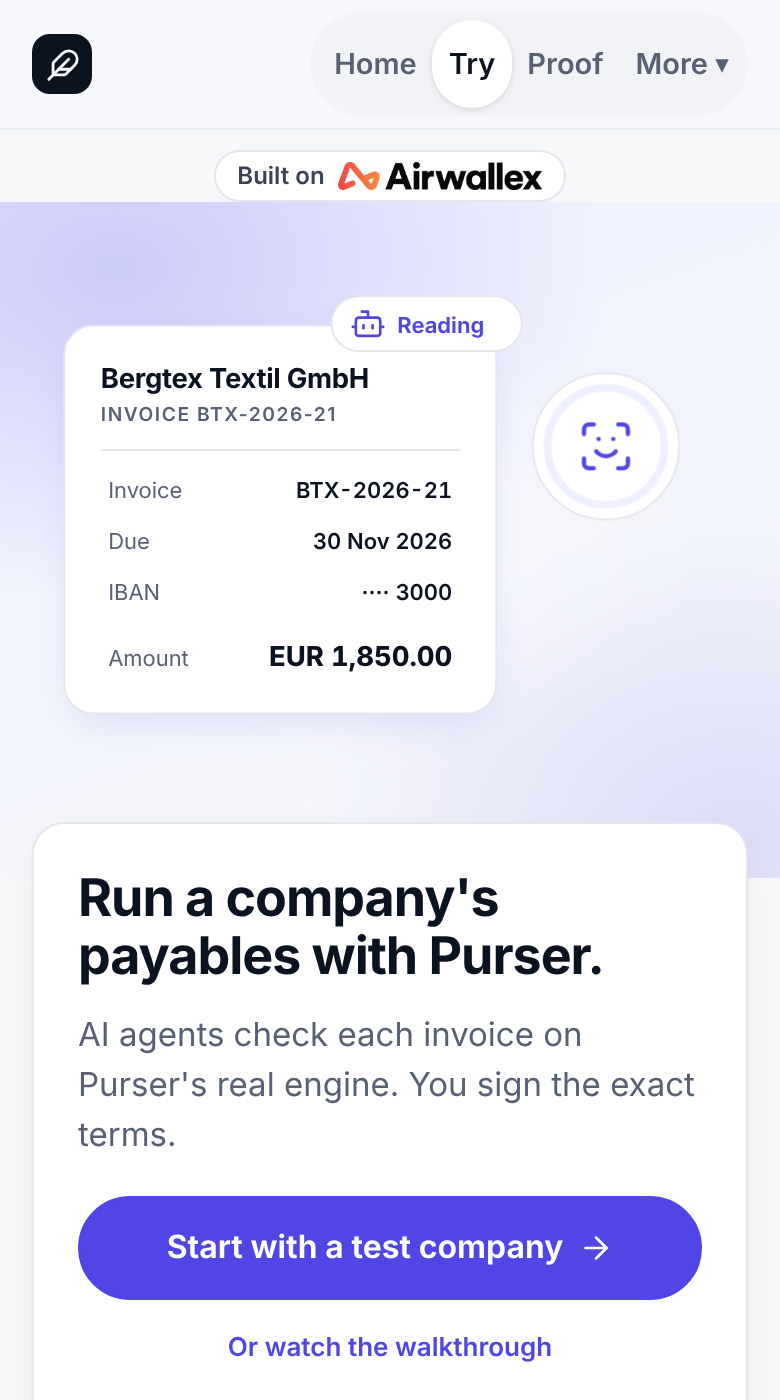
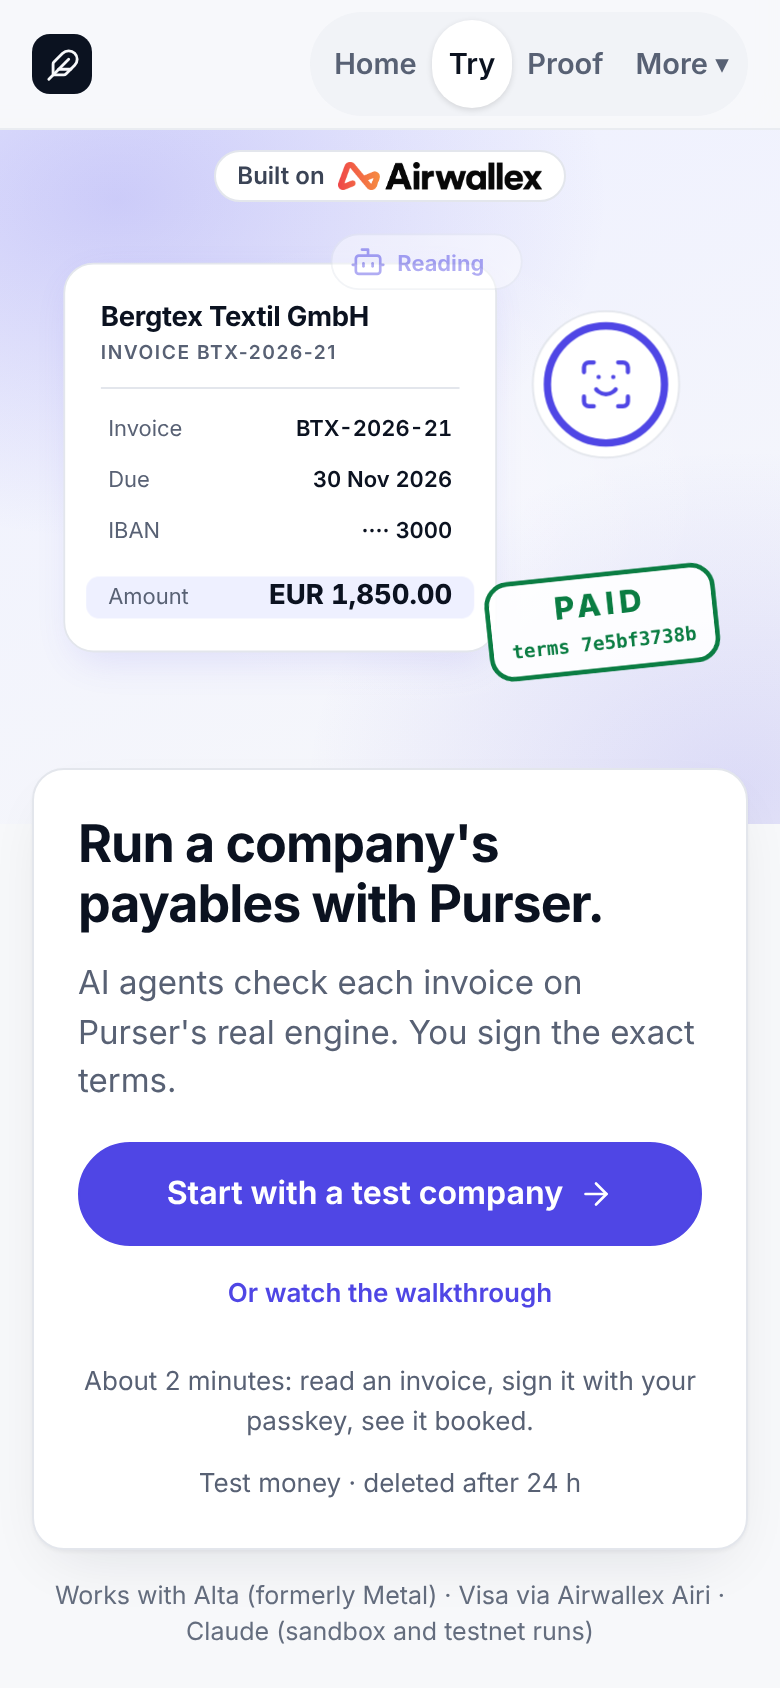
Built on Airwallex on a phone: the console's sign-in keeps its first screen (the badge in the app bar), /try's start lays it over the band; browser checks follow the badge
Claude-Session: https://claude.ai/code/session_017bq3BvkXh6dTsNNenZAutd

diff --git a/cloud/src/console.ts b/cloud/src/console.ts
@@ -343,6 +343,10 @@ ol.stepper li.done .n .ic { display: inline-flex; }
 .hero, .trust { display: none; }
 .signed-out .hero { display: grid; flex: 1 0 auto; min-height: 34vh; min-height: 34svh; padding: 16px 12px 44px; }
 .signed-out #foot, .signed-out .foot-awx { display: none; }
+/* "Built on Airwallex" on a phone: signed out, in the app bar's empty left (the site's own line under the header would
+   push the sign-in card below the first screen); signed in, the footer's badge. */
+.awx-app { display: none; }
+@media (max-width: 759px) { body .awx-row { display: none; } .signed-out .awx-app { display: inline-flex; } }
 .signed-out { display: flex; flex-direction: column; min-height: 100vh; min-height: 100svh; }
 .signed-out main { position: relative; z-index: 1; margin-top: -28px; padding: 0; }
 .signed-out .auth { margin: 0 auto; border-radius: 16px; }
@@ -361,7 +365,7 @@ ol.stepper li.done .n .ic { display: inline-flex; }
 const BODY = `
 ${siteHeader(null)}
 <div class="appbar"><div class="wrap"><nav class="apptabs" id="tabs" aria-label="${tr("en", "app.pages")}"><a href="#/overview" data-tab="overview" data-t="cs.nav.overview">${tr("en", "cs.nav.overview")}</a><a href="#/agents" data-tab="agents" data-t="cs.nav.agents">${tr("en", "cs.nav.agents")}</a><a href="#/invoices" data-tab="invoices" data-t="nav.invoices">${tr("en", "nav.invoices")}</a><a href="#/books" data-tab="books" data-t="cs.nav.ledger">${tr("en", "cs.nav.ledger")}</a><a href="#/transactions" data-tab="transactions" data-t="nav.transactions">${tr("en", "nav.transactions")}</a><a href="#/tokenisation" data-tab="tokenisation" data-t="cs.nav.tokens">${tr("en", "cs.nav.tokens")}</a><a href="#/settings" data-tab="settings" data-t="cs.nav.settings">${tr("en", "cs.nav.settings")}</a></nav>
-<span class="spacer"></span>
+<span class="awx-app">${builtOnBadge({ href: `${SITE_ORIGIN}/airwallex`, src: `${SITE_ORIGIN}${AIRWALLEX_LOGO_PATH}` })}</span><span class="spacer"></span>
 <span class="who-am-i"><a class="co" id="co" href="#/settings"></a><span id="who"></span><button type="button" id="out" title="${tr("en", "cs.sign_out")}" aria-label="${tr("en", "cs.sign_out")}">${svg("log-out", 16)}</button></span>
 <span class="test" title="${escAttr(tr("en", "test.title"))}">${svg("flask", 14)}<span class="tl" data-t="test.label"> ${tr("en", "test.label")}</span></span></div></div>
 <div class="demo-ribbon" id="demo" hidden><div class="wrap">${svg("flask", 15)}<span data-t="cs.demo.ribbon">${tr("en", "cs.demo.ribbon")}</span><a href="#/sign-in" id="demo-out" data-t="cs.demo.leave">${tr("en", "cs.demo.leave")}</a></div></div>

diff --git a/test/browser/pages.check.ts b/test/browser/pages.check.ts
@@ -1073,7 +1073,8 @@ for (const [w, h] of [[360, 780], [390, 844], [768, 1024], [1440, 900]] as const
         // The partner tiles on the first screen; the chain and the band within the next (14 Nov, the tiles lead: the chain at
         // 9xx px and the band at 1,3xx px as built at 390; before, the chain under 400 px and the band under 1,300 px).
         const tiles = await page.evaluate(`(() => { const e = document.querySelector("main ul.ptiles"); return e ? Math.round(e.getBoundingClientRect().top + scrollY) : -1; })()`) as number;
-        if (tiles < 0 || tiles >= 400) fail(`/proof ${tag}: the partner tiles start at ${tiles} px, not on the first screen`);
+        // 440 since 14 Nov: the "Built on Airwallex" line under the header on a phone (src/ui/builtOn.ts) adds 36 px.
+        if (tiles < 0 || tiles >= 440) fail(`/proof ${tag}: the partner tiles start at ${tiles} px, not on the first screen`);
         if (first.chain < 0 || first.chain >= 1000) fail(`/proof ${tag}: the proof chain starts at ${first.chain} px, over 1,000 px`);
         if (first.band < 0 || first.band > 1450) fail(`/proof ${tag}: the band starts at ${first.band} px, over 1,450 px`);
         const closed = await targets();

diff --git a/test/differentiation.test.ts b/test/differentiation.test.ts
@@ -69,7 +69,8 @@ describe("the three sentences (jury review, 6 Nov, #1)", () => {
     // 70 lines since the enterprise README (13 Nov): the three proofs and the Enterprise section come before the judges' 3 minutes.
     // 135 lines since the README upgrade (13 Nov, evening): Watch it, the 3 steps, Built with, the gallery and the
     // quick start come before the judges' 3 minutes.
-    const top = words(lines.slice(lines.indexOf("# Purser · AI agents spend. You sign off.") + 1, 135).join("\n"));
+    // 14 Nov (Max): the "Built on Airwallex" line right under the title (test/first-screen.test.ts), then the pitch.
+    const top = words(lines.slice(lines.indexOf("# Purser · AI agents spend. You sign off.") + 1, 135).filter((l) => !l.startsWith("**Built on Airwallex.**")).join("\n"));
     // Since 13 Nov (the enterprise README): what Purser is in README_WHAT; the form and the deck keep WHAT_IT_IS.
     expect(top.startsWith(`${README_WHAT} ${DIFFERENTIATORS[0]}`)).toBe(true);
     // Since 13 Nov (the judge run) the buttons after them: sign in 60 seconds (/try/sign), then the payables inbox on /try

diff --git a/test/built-on-airwallex.test.ts b/test/built-on-airwallex.test.ts
@@ -57,6 +57,11 @@ describe("the Built on Airwallex badge", () => {
       }
     }
     expect(cloudConsole).toMatch(/<p class="foot-awx wrap"><a class="awx-badge" href="https:\/\/kit11\.max-31b\.workers\.dev\/airwallex"/);
+    // On a phone, signed out (the landing), in the app bar's empty left, so the sign-in card keeps the first screen;
+    // /try's start lays its line over the band's empty top for the same reason (test/browser/console.check.ts, try.check.ts).
+    expect(cloudConsole).toMatch(/<span class="awx-app"><a class="awx-badge" href="https:\/\/kit11\.max-31b\.workers\.dev\/airwallex"/);
+    expect(cloudConsole).toContain(".signed-out .awx-app { display: inline-flex; }");
+    expect(cloudTry).toContain("body:has(.screen.start) .awx-row { position: absolute; top: 65px;");
     // The cloud's pages may load images from the site, for this logo; nothing else in the policy moved.
     expect(consoleCsp("N")).toContain(`img-src 'self' data: blob: ${SITE_ORIGIN};`);
     // The header is the site's own function, so every page draws it alike.

diff --git a/test/readme-five-files.test.ts b/test/readme-five-files.test.ts
@@ -154,8 +154,9 @@ describe("the README's own words elsewhere: the package, the business pages, the
 
   it("package.json's description is the README's first sentence", () => {
     // The first sentence under the title, as written in the owner's centred top (13 Nov): bold, so the marks go.
+    // 14 Nov (Max): the "Built on Airwallex" line comes first, then this sentence (test/first-screen.test.ts).
     const lines = README.split("\n");
-    const first = lines.slice(lines.findIndex((l) => l.startsWith("# Purser")) + 1).find((l) => l.trim() !== "")!.trim().replace(/^\*\*|\*\*$/g, "");
+    const first = lines.slice(lines.findIndex((l) => l.startsWith("# Purser")) + 1).find((l) => l.trim() !== "" && !l.startsWith("**Built on Airwallex.**"))!.trim().replace(/^\*\*|\*\*$/g, "");
     expect(first.length).toBeGreaterThan(40);
     expect(first).toMatch(/^[A-Z][^\n]*\.$/);
     expect((JSON.parse(read("package.json")) as { description?: string }).description).toBe(first);

diff --git a/cloud/src/tryPage.ts b/cloud/src/tryPage.ts
@@ -67,6 +67,9 @@ body:has(.screen.start) h1 { margin-top: 0; }
 body:has(.screen.start) { display: flex; flex-direction: column; min-height: 100vh; min-height: 100svh; }
 body:has(.screen.start) .hero { flex: 1 0 auto; min-height: 40vh; min-height: 40svh; padding: 16px 12px 40px; }
 body:has(.screen.start) .trust { margin-top: auto; }
+/* "Built on Airwallex" on a phone (src/ui/builtOn.ts): on the start, over the band's empty top, out of the flow, so the
+   card and the trust line keep the first screen; on the other screens its own line under the header. */
+@media (max-width: 759px) { body:has(.screen.start) .awx-row { position: absolute; top: 65px; left: 0; right: 0; z-index: 2; } }
 .start .lede { margin: 0 0 18px; font-size: 16.5px; }
 .start .btn.big { margin-top: 0; width: 100%; }
 .start .btn .i { vertical-align: 0; }

diff --git a/test/browser/console.check.ts b/test/browser/console.check.ts
@@ -202,7 +202,8 @@ await page.goto(`${ORIGIN}/#/invoices`);
 await page.waitForSelector(".row:not(.th)");
 await settle();
 await shot("06-facturen");
-ok((await page.$$("img")).length === 0 && (await text()).includes('<img src=x onerror="document.title=\'pwned\'">Evil Supplies'), "a supplier name with HTML shows as text, never as markup");
+// The "Built on Airwallex" badge's logo (src/ui/builtOn.ts) is the page's own image; no other img, none from a supplier.
+ok((await page.$$("img:not(.awx-badge img)")).length === 0 && (await text()).includes('<img src=x onerror="document.title=\'pwned\'">Evil Supplies'), "a supplier name with HTML shows as text, never as markup");
 ok(!(await page.title()).includes("pwned"), "no script from a supplier's text ran");
 
 await page.goto(`${ORIGIN}/#/invoices/${encodeURIComponent(paidId)}`);

diff --git a/docs/assets/brand/README.md b/docs/assets/brand/README.md
@@ -10,7 +10,8 @@ uses it; `test/brand-mark.test.ts` checks it against the header's own paths and 
 One badge, "Built on" and the official Airwallex logo (`src/ui/logos/airwallex.png`, unaltered;
 [SOURCES.md](../logos/SOURCES.md)), from `src/ui/builtOn.ts`: in the site's header on every page that carries it (Home,
 /try, /proof, /docs, Purser Cloud), beside the brand from 760 px and on its own line under the header on a phone, and
-in the console's footer. A white pill in both themes (the file is a dark wordmark with no light version), the logo
+in the console's footer (on a phone, signed out: in the console's app bar; on /try's start: over the band's empty
+top, so the first screen keeps its card). A white pill in both themes (the file is a dark wordmark with no light version), the logo
 14 px high, below Purser's 30 px mark. The link preview (`built-on-airwallex-og.png`, the same file as
 `../social-preview.png` and `src/ui/brand/og.png`, served as `/assets/og-1114.png`) says it too. "Built on" only: no
 partnership or endorsement implied. Screenshots, rendered locally before the deploy:
@@ -20,3 +21,4 @@ partnership or endorsement implied. Screenshots, rendered locally before the dep
 | `built-on-airwallex-og.png` | The link preview, 1200 × 630 |
 | `built-on-airwallex-home-1440-light.png`, `-home-1440-dark.png`, `-home-390-light.png` | Home's header, laptop and phone |
 | `built-on-airwallex-try-1440-light.png`, `-try-390-light.png`, `-try-390-dark.png` | /try's header (start screen), laptop and phone |
+| `built-on-airwallex-try-finish-390-light.png` | /try's finish ("What Purser did with it"), phone |
